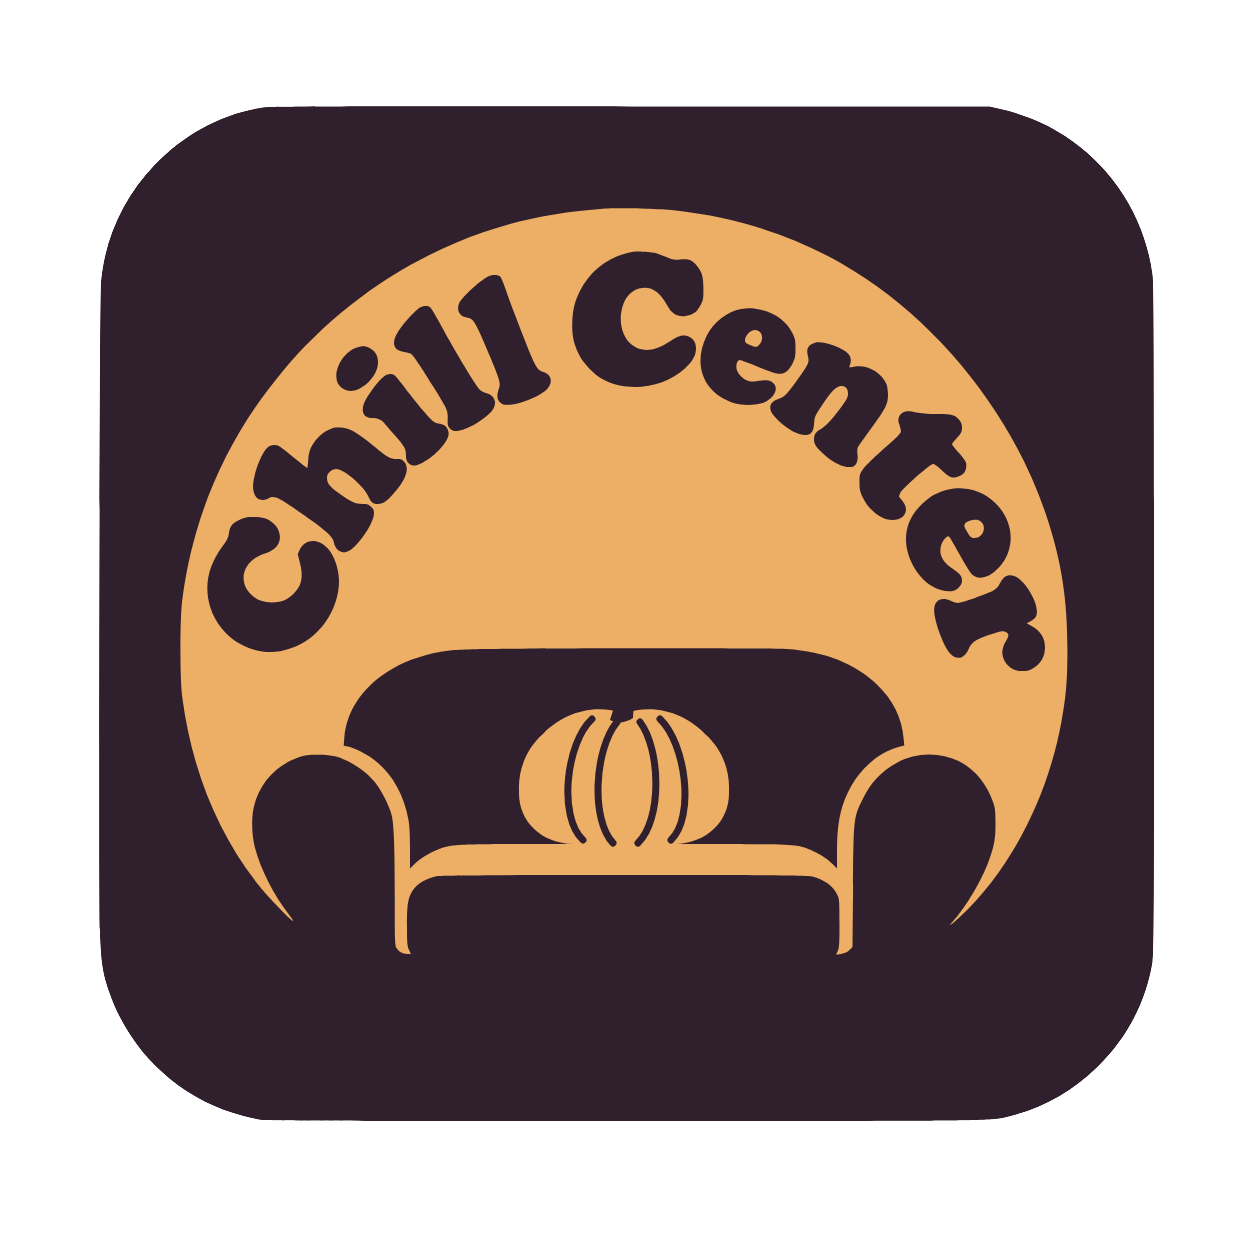
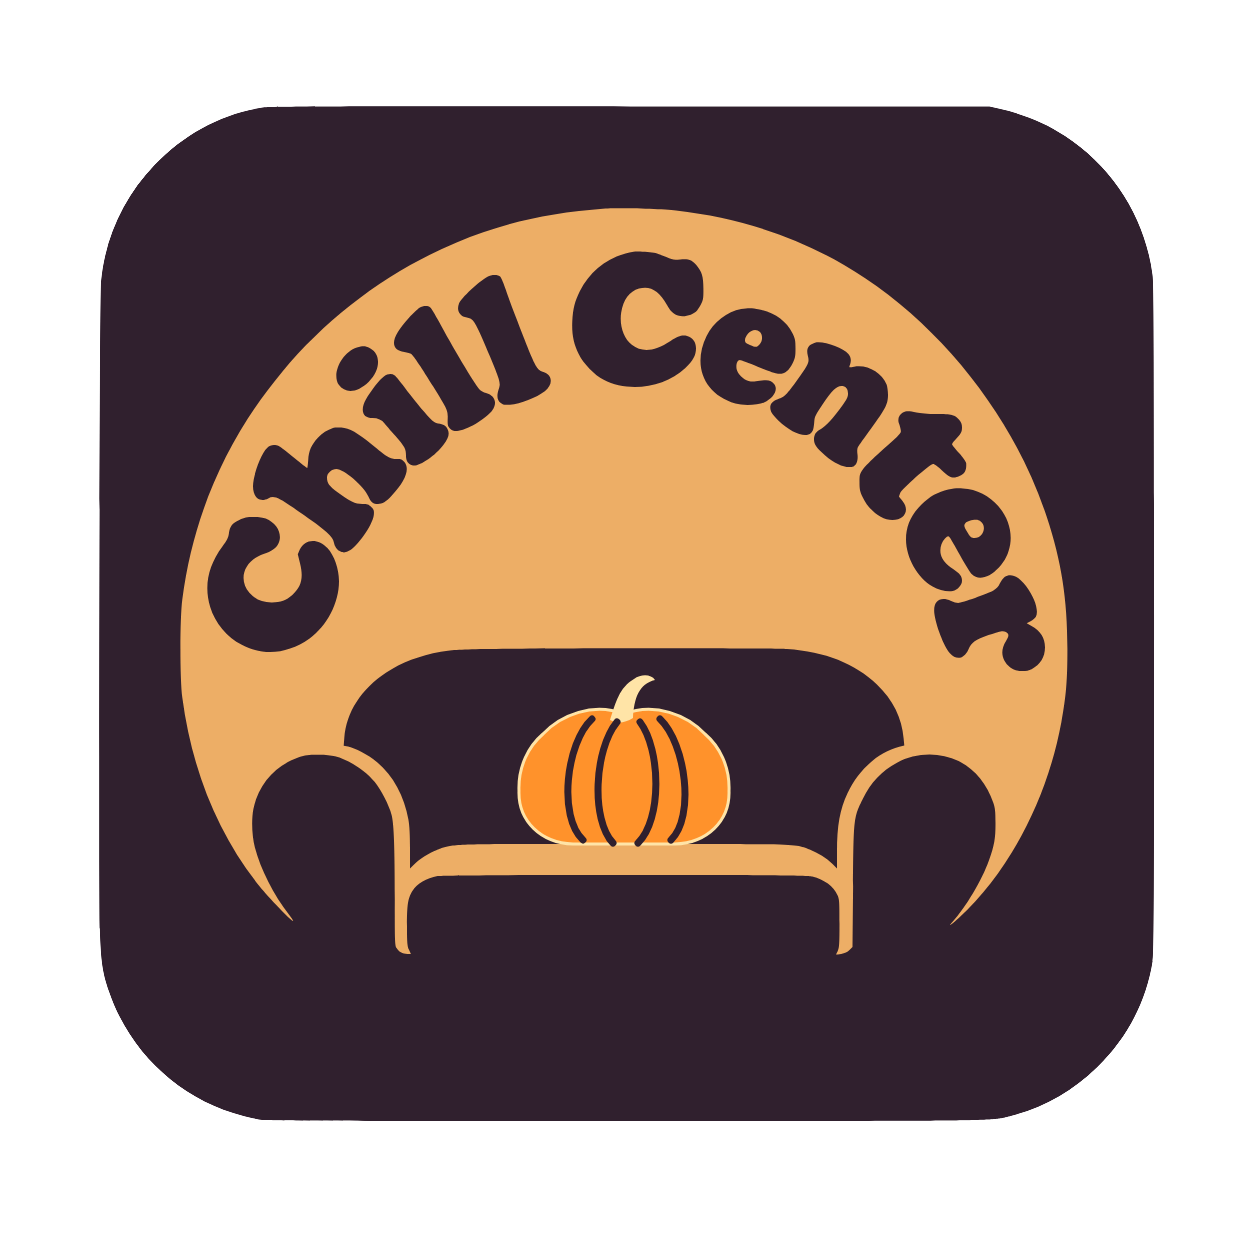
fix(branding): improve dark Halloween pumpkin contrast

Changed region(s): [[0.4043, 0.5287, 0.5909, 0.6842]]

diff --git a/icons/branding/gallery.html b/icons/branding/gallery.html
@@ -44,7 +44,7 @@ figcaption{text-align:center;font-weight:650;margin-top:10px}.note{font-size:14p
 </div></section>
 <section><h2>Halloween</h2><div class="pair">
 <figure><img loading="lazy" src="vector/halloween-light.svg?v=5" alt="Halloween, version claire"><figcaption>Clair</figcaption></figure>
-<figure class="dark"><img loading="lazy" src="vector/halloween-dark.svg?v=5" alt="Halloween, version sombre"><figcaption>Sombre</figcaption></figure>
+<figure class="dark"><img loading="lazy" src="vector/halloween-dark.svg?v=6" alt="Halloween, version sombre, citrouille orange contrastée"><figcaption>Sombre</figcaption></figure>
 </div></section>
 <p class="note">SVG statiques et autonomes · aucune police externe, aucun JavaScript, aucun réseau, aucune animation. Tracés communs contrôlés sur treize SVG. Les PNG des douze ambiances sont désormais exportés des SVG ; les anciens rendus sont archivés et le PNG original reste conservé. Activation des ambiances dans l’application non raccordée par ce lot.</p>
 <p><a href="README.md">Documentation et provenance</a> · <a href="vector/master.svg">Source commune</a></p>

diff --git a/scripts/branding.rs b/scripts/branding.rs
@@ -103,7 +103,7 @@ const THEMES: [Theme; 13] = [
         ink: "#30202E",
         disc: "#EDAE66",
         motif: "pumpkin",
-        detail: "#EDAE66",
+        detail: "#FF922B",
     },
 ];
 
@@ -122,9 +122,19 @@ fn render(theme: Theme) -> String {
         } else {
             theme.ink
         };
+        let stem = if theme.key == "halloween-dark" {
+            "#FFE4A7"
+        } else {
+            outline
+        };
+        let body_outline = if theme.key == "halloween-dark" {
+            " stroke=\"#FFE4A7\" stroke-width=\"3\""
+        } else {
+            ""
+        };
         format!(
-            "<g id=\"event-pumpkin\"><use xlink:href=\"#pumpkin-body\" fill=\"{}\"/><use xlink:href=\"#pumpkin-stem\" fill=\"{}\"/><use xlink:href=\"#pumpkin-ribs\" fill=\"none\" stroke=\"{}\" stroke-width=\"7\" stroke-linecap=\"round\"/></g>",
-            theme.detail, outline, outline
+            "<g id=\"event-pumpkin\"><use xlink:href=\"#pumpkin-body\" fill=\"{}\"{}/><use xlink:href=\"#pumpkin-stem\" fill=\"{}\"/><use xlink:href=\"#pumpkin-ribs\" fill=\"none\" stroke=\"{}\" stroke-width=\"7\" stroke-linecap=\"round\"/></g>",
+            theme.detail, body_outline, stem, outline
         )
     } else {
         String::new()
@@ -156,6 +166,15 @@ fn main() -> io::Result<()> {
 #[cfg(test)]
 mod tests {
     use super::*;
+
+    #[test]
+    fn dark_pumpkin_stem_and_body_do_not_blend_into_sofa_or_disc() {
+        let theme = THEMES.iter().find(|t| t.key == "halloween-dark").unwrap();
+        assert_ne!(theme.detail, theme.disc);
+        let svg = render(*theme);
+        assert!(svg.contains("#pumpkin-stem\" fill=\"#FFE4A7\""));
+        assert!(svg.contains("#pumpkin-body\" fill=\"#FF922B\" stroke=\"#FFE4A7\""));
+    }
 
     fn definitions(svg: &str) -> &str {
         svg.split_once("<defs>")

diff --git a/icons/branding/README.md b/icons/branding/README.md
@@ -4,6 +4,8 @@
 
 ## Base vectorielle validée et déclinaisons r5
 
+Retouche r6 : citrouille Halloween sombre plus distincte, orange vif `#FF922B`, tige et fin contour crème `#FFE4A7`. Les tracés/espacements restent inchangés. Ancien PNG conservé sous `raster-r5/`, hashes actuels dans le manifeste ; les exports-r5 sont une preuve historique antérieure à cette retouche. Voir BUG-0011.
+
 Validation utilisateur : « nickel, utilise le vectorisé comme base pour refaire les autres ». **Référence actuelle : [vector/default.svg](vector/default.svg), dérivée du gabarit unique [master.svg](vector/master.svg).** Son export PNG est [vector/default.png](vector/default.png). Les douze autres PNG à la racine sont désormais des exports des SVG correspondants, pas des dessins indépendants produits par IA. Les SVG/générateur ont été régénérés à l'identique, sans changement de formes ou de palettes.
 
 Treize exports PNG1254×1254 transparents réalisés dans Chromium avec profil temporaire et réseau bloqué. Sources/hashes de chaque paire dans [exports-r5.json](vector/exports-r5.json) ; manifeste de marque format2 (défaut SVG + export raster, original historique séparé). Les douze anciens PNG sont copiés dans `raster-r4/`, hashes historiques conservés dans `branding-r5`. Le PNG original reste inchangé. Le rapport de provenance r4 est une preuve historique antérieure à cette validation.

diff --git a/docs/debug/INDEX.md b/docs/debug/INDEX.md
@@ -19,6 +19,8 @@ Révision `CC-DOC-001`. Ce journal sera relu avant chaque nouvelle intervention.
 
 ## Format de tout futur BUG
 
+Branding r6 : [BUG-0011 citrouille Halloween sombre](BUG-0011-halloween-pumpkin-contrast.md), VERIFIED : orange distinct, tige/contour clairs ;4 tests et rendu navigateur, géométrie inchangée.
+
 Suivi r5 de BUG-0010 : base vectorisée validée par l'utilisateur,13 PNG réexportés depuis les SVG communs ; les12 anciens rasters canoniques sont archivés dans `icons/branding/raster-r4/`. Les comparaisons raster r3/r4 restent historiques, pas les assets courants. Sources SVG/générateur inchangés, aucun nouveau défaut applicatif revendiqué.
 
 Assets de marque r3/r4 : [BUG-0010 géométrie du canapé](BUG-0010-branding-geometry.md) : VERIFIED pour les SVG communs autorisés par l'utilisateur, mêmes tracés sur13 variantes ; défaut principal Noël clair corrigé, branches latérales vérifiées. Audit des PNG et leurs écarts résiduels conservés dans `icons/branding/geometry-audit-r3.json`. Méthode vectorielle autorisée, propositions visuelles encore à valider.

diff --git a/docs/debug/BUG-0011-halloween-pumpkin-contrast.md b/docs/debug/BUG-0011-halloween-pumpkin-contrast.md
@@ -1,0 +1,7 @@
+# BUG-0011 — Citrouille Halloween sombre peu lisible
+
+2026-10-13 · VERIFIED · auteur /root · base7766a46d46fdad7fe844b62049dff12697043ac7.
+
+Signalement utilisateur confirmé sur le SVG/PNG : corps identique au disque ocre et tige aubergine identique au dossier. H1 : palette du motif, pas défaut de géométrie. Expérience : lecture des couleurs du générateur et inspection du rendu navigateur ; hypothèse confirmée.
+
+Correction : orange vif distinct pour le corps, tige claire et contour fin ; nervures sombres conservées. Aucun déplacement du canapé ou du motif ; paths communs identiques. Générateur Rust + export Chromium sans réseau. Quatre tests du générateur PASS, dont régression sur les couleurs de tige/corps ; rendu1254px inspecté. Ancien PNG préservé dans icons/branding/raster-r5 ; source/hashes avant/après dans le manifeste r6. Rollback : version du générateur/SVG/PNG de la base, dans une branche isolée. Pas d'icône runtime ou code applicatif modifié par cette retouche.
